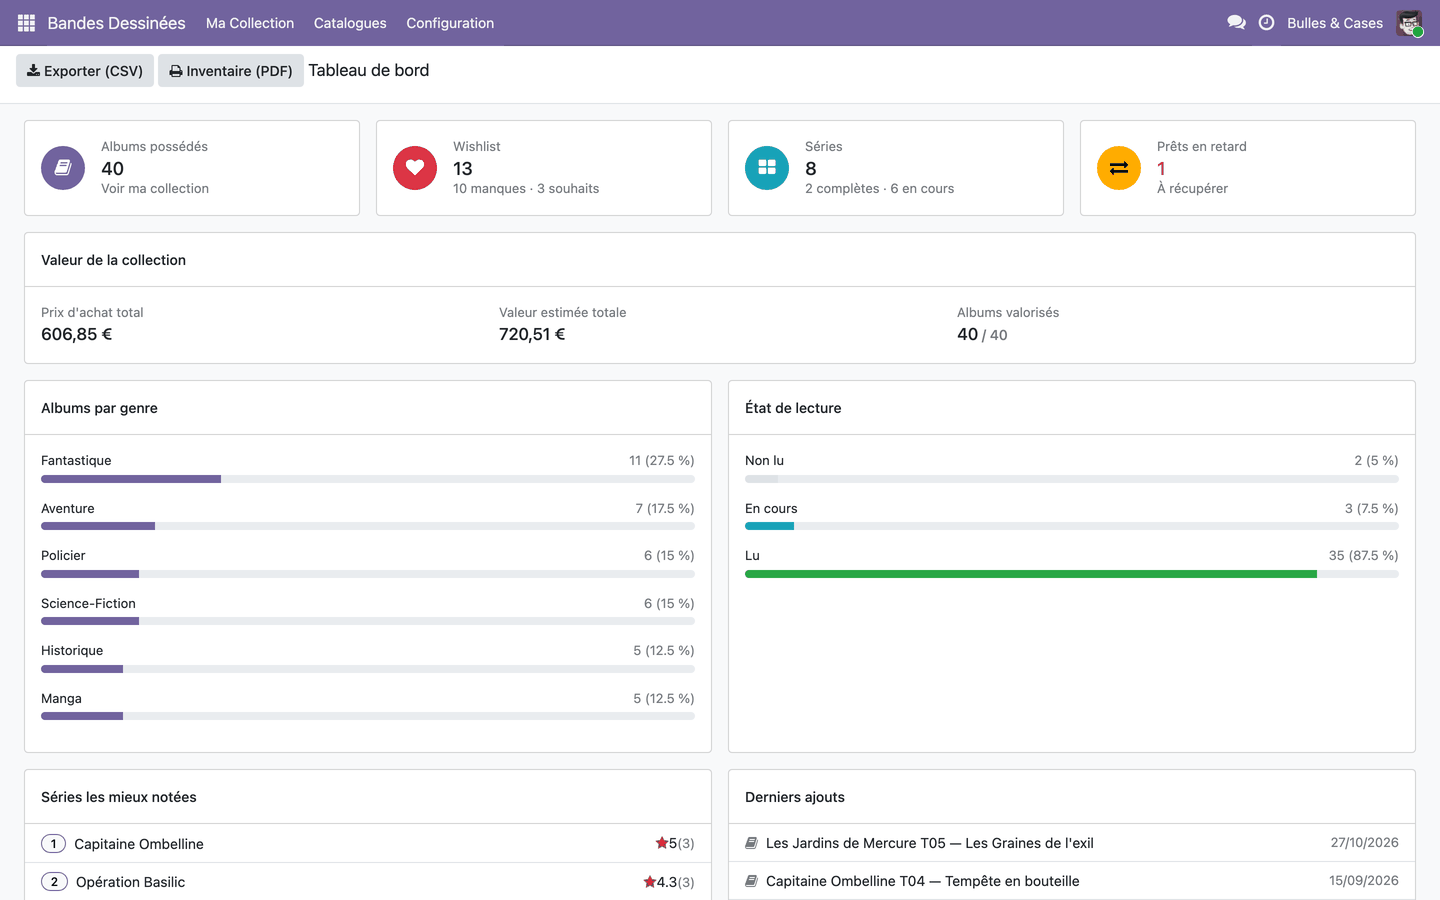
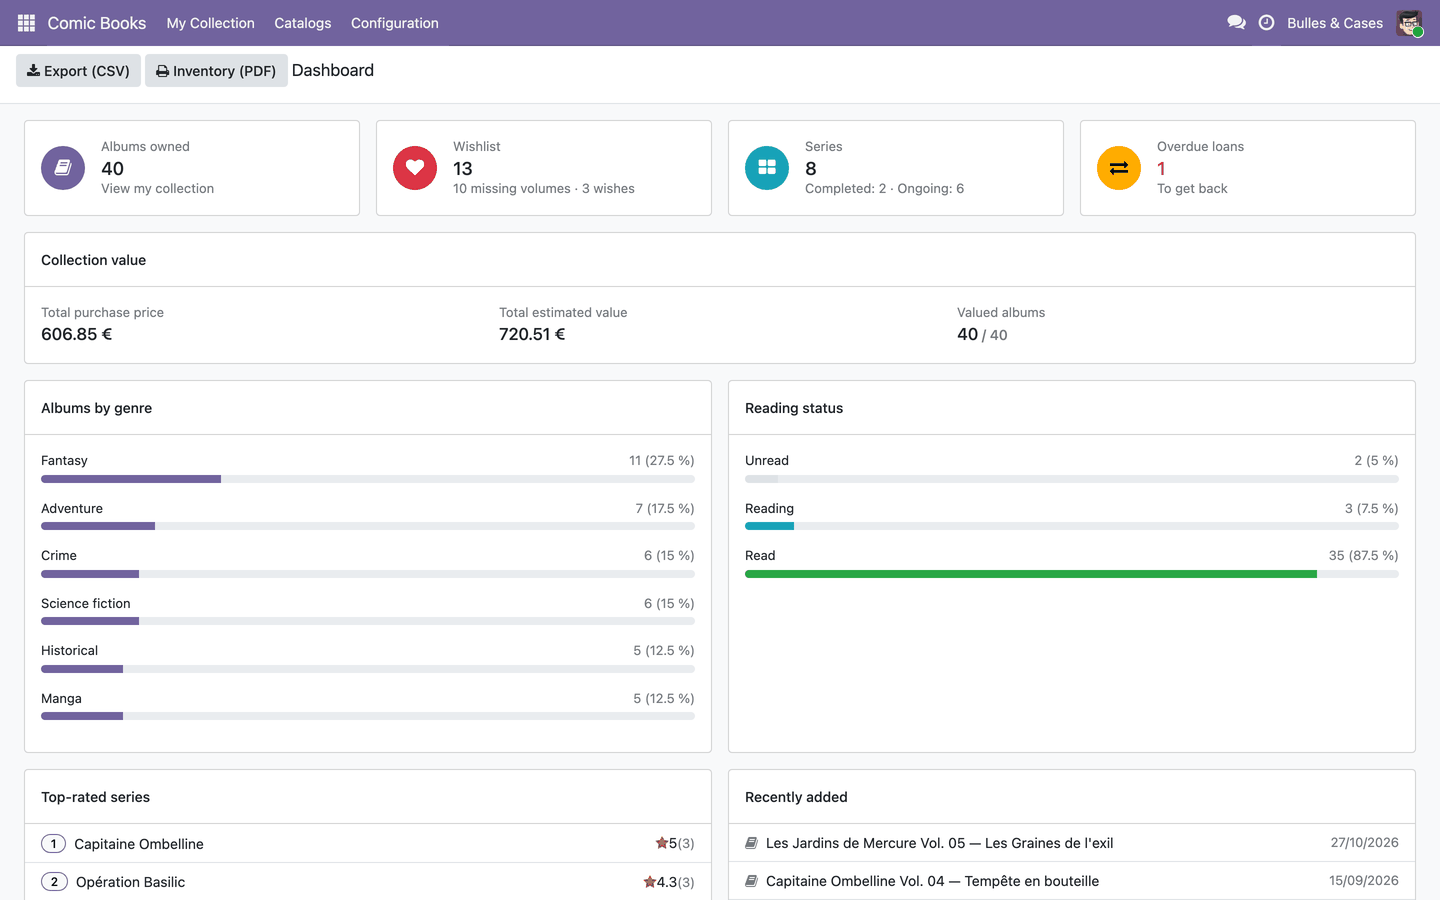
US-092 : captures et bannières App Store en anglais
Closes #9

diff --git a/CHANGE.md b/CHANGE.md
@@ -2664,3 +2664,6 @@ cinq modules : 472 tests verts.
   bibliothèque (`comic.edition` n'a pas de champ `name`) et « Titre » ne cherchait que le titre de
   l'album. `_rec_names_search` ajouté : `comic.work` → titre + nom de série ; `comic.edition` →
   titre + série de l'album + ISBN-13. Test `test_library_search.py`.
+- **Captures App Store en anglais** (dernier critère de #9) : captures et bannières de
+  `comics_collections` et `comic_datasource` refaites avec l'interface et la démo en anglais
+  (chaîne `tools/appstore` du dépôt privé).
